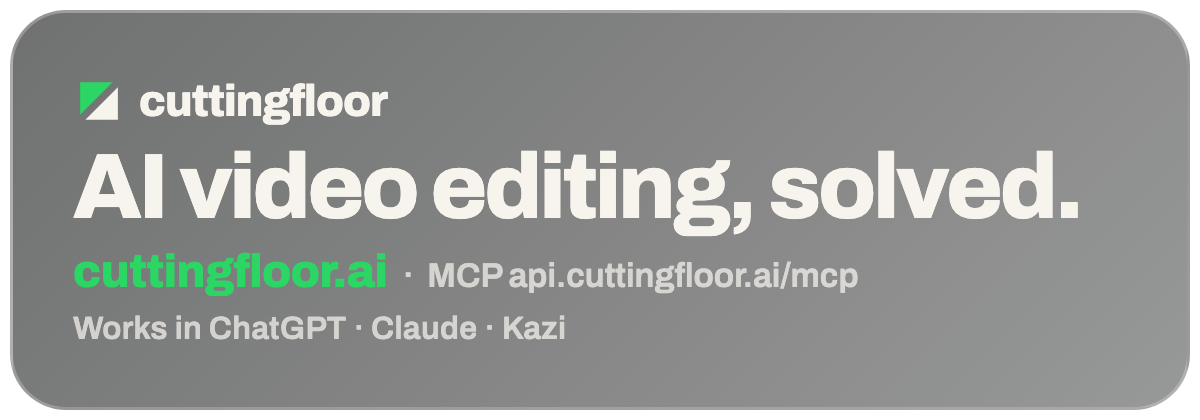
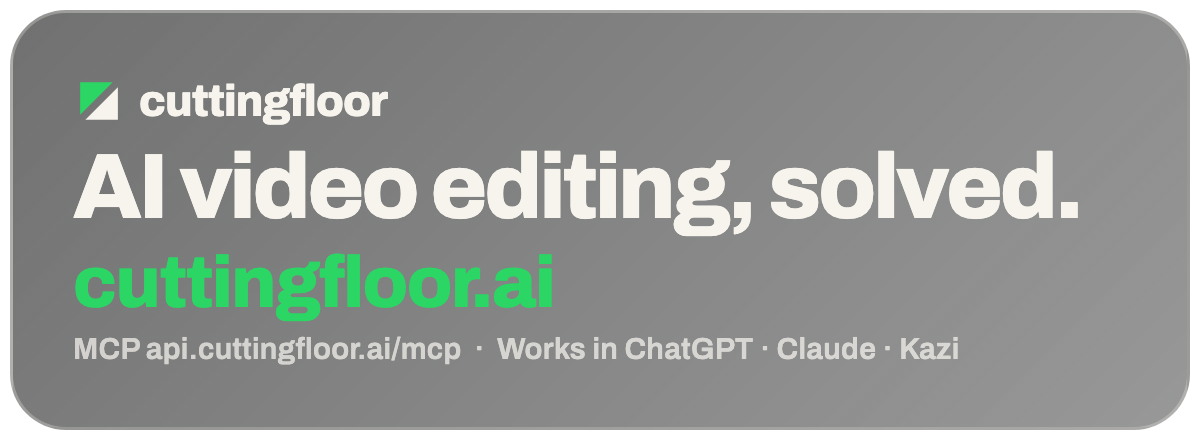
fix(engine): cuttingfloor.ai larger on the watermark card

diff --git a/packages/engine/scripts/build-mark.ts b/packages/engine/scripts/build-mark.ts
@@ -40,7 +40,7 @@ const MARK = `<svg viewBox="0 0 32 32"><path d="M4.4 4.4H24.4L4.4 24.4Z" fill="$
 // Drawn large and scaled down at marking. Its own opacity is the card's: a dark glass the
 // picture shows through, and type a step brighter, so it reads on any footage without hiding it.
 const WIDTH = 1200;
-const HEIGHT = 420;
+const HEIGHT = 440;
 const page = join(work, 'card.html');
 writeFileSync(
   page,
@@ -54,14 +54,13 @@ html, body { margin: 0; width: ${WIDTH}px; height: ${HEIGHT}px; background: tran
 .lockup { display: flex; align-items: center; gap: 14px; font-weight: 800; font-size: 44px; letter-spacing: -0.02em; }
 .lockup svg { width: 52px; height: 52px; }
 h1 { margin: 0; font-weight: 800; font-size: 92px; line-height: 1; letter-spacing: -0.035em; }
-.url { font-weight: 800; font-size: 46px; color: ${GREEN}; letter-spacing: -0.01em; }
-.url span { font-weight: 600; font-size: 34px; color: ${DIM}; letter-spacing: 0; }
-.apps { font-weight: 600; font-size: 32px; color: ${DIM}; letter-spacing: 0.01em; }
+.url { font-weight: 800; font-size: 72px; line-height: 1; color: ${GREEN}; letter-spacing: -0.02em; }
+.apps { font-weight: 600; font-size: 30px; color: ${DIM}; letter-spacing: 0.01em; }
 </style><div class="card">
 <div class="lockup">${MARK}<span>cuttingfloor</span></div>
 <h1>AI video editing, solved.</h1>
-<div class="url">cuttingfloor.ai <span>&nbsp;·&nbsp; MCP api.cuttingfloor.ai/mcp</span></div>
-<div class="apps">Works in ChatGPT · Claude · Kazi</div>
+<div class="url">cuttingfloor.ai</div>
+<div class="apps">MCP api.cuttingfloor.ai/mcp &nbsp;·&nbsp; Works in ChatGPT · Claude · Kazi</div>
 </div>`,
 );
 execFileSync(values.chrome, [

diff --git a/packages/engine/src/mark.ts b/packages/engine/src/mark.ts
@@ -14,7 +14,7 @@ import { BIN, heavyThreads, run } from './exec.ts';
 // exactly. A still gets the card once, somewhere.
 
 const ASSETS = fileURLToPath(new URL('../assets/mark/', import.meta.url));
-const CARD = { file: `${ASSETS}card.png`, width: 1200, height: 420 };
+const CARD = { file: `${ASSETS}card.png`, width: 1200, height: 440 };
 /** The sizes and tilts a file's card takes, one at a time, a different one after each bounce. */
 const LOOKS = 5;
 

diff --git a/.changeset/mark-url-larger.md b/.changeset/mark-url-larger.md
@@ -1,0 +1,5 @@
+---
+'cuttingfloor': patch
+---
+
+The watermark card's cuttingfloor.ai is larger; the MCP address moves beside the apps it works in.
